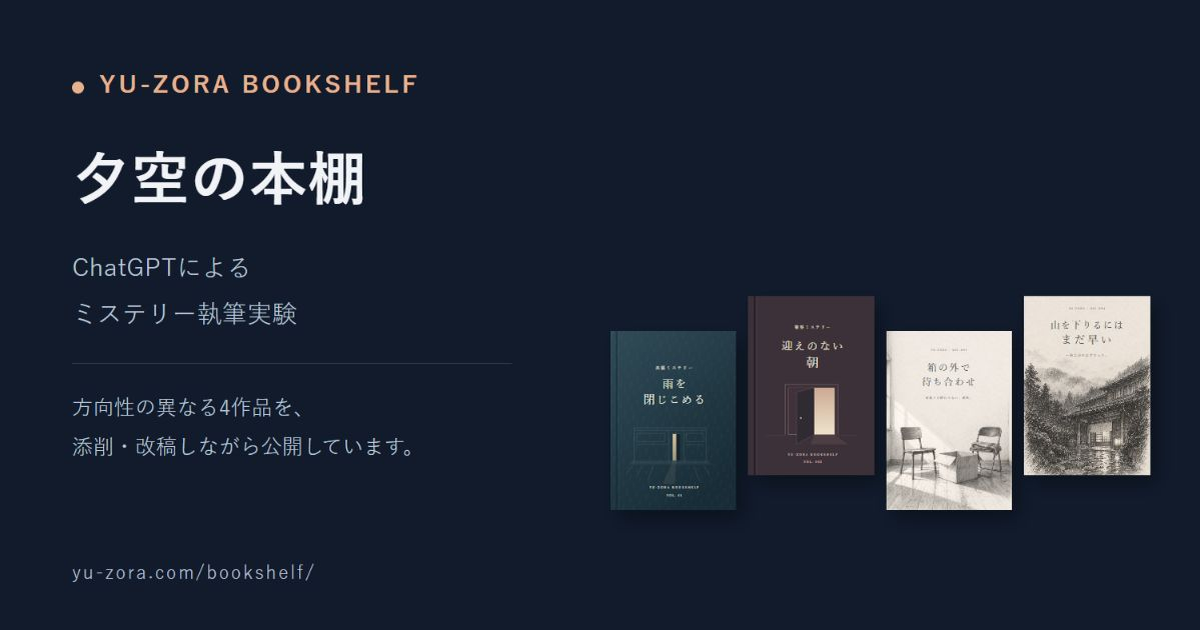
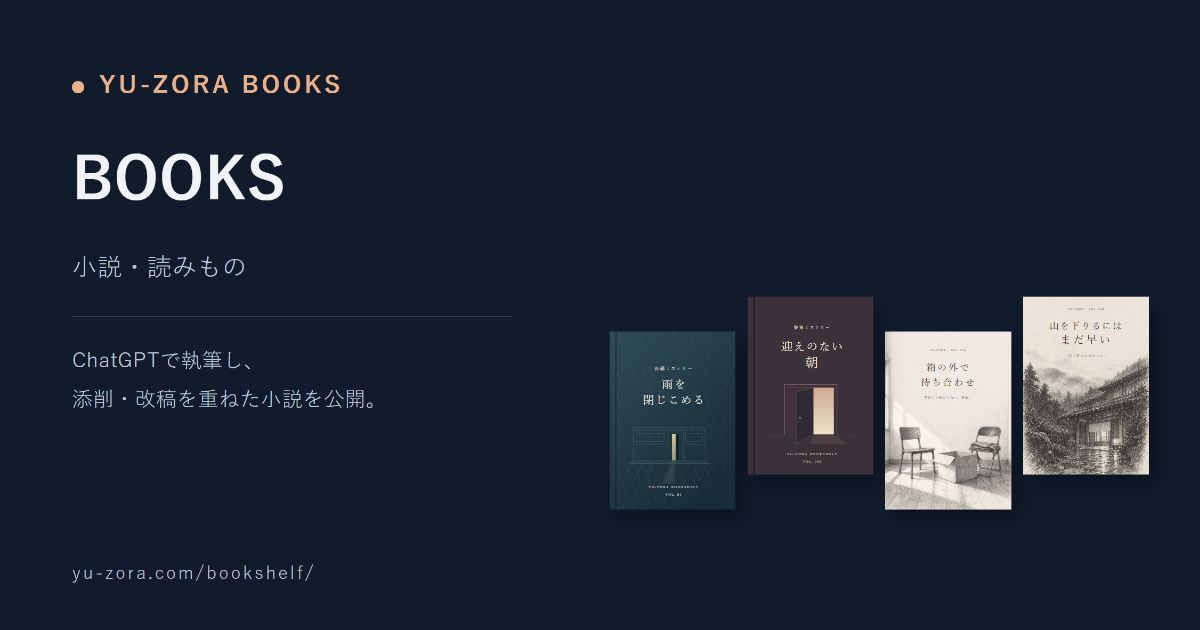
Present BOOKS with concise guidance and random public book feature

diff --git a/docs/social-cards/bookshelf.html b/docs/social-cards/bookshelf.html
@@ -1,1 +1,1 @@
-<!doctype html><html lang="ja"><meta charset="utf-8"><title>bookshelf — SNS共有画像</title><style>*{box-sizing:border-box}html,body{margin:0;width:1200px;height:630px;overflow:hidden}body{font-family:'Yu Gothic',Meiryo,sans-serif;background:#111b2c;color:#f1f3f7}main{width:1200px;height:630px;padding:66px 72px;position:relative}.brand{font-size:24px;letter-spacing:3px;font-weight:700;color:#e7b18d}.dot{display:inline-block;width:12px;height:12px;border-radius:50%;background:#e7b18d;margin-right:15px}h1{font-size:58px;line-height:1.5;margin:32px 0 22px;letter-spacing:1px}p{font-size:25px;line-height:1.85;color:#bcc8d8;margin:0}.domain{position:absolute;bottom:42px;left:72px;font-size:18px;letter-spacing:2px;color:#b2bfcc}.rule{height:1px;background:#ffffff25;margin:25px 0}.cover{box-shadow:14px 18px 32px #0004}.book-card{display:grid;grid-template-columns:300px 1fr;gap:62px;align-items:center}.book-card .cover{width:288px;height:408px}.book-card h1{font-family:'Yu Mincho',serif;font-size:50px;line-height:1.5;margin:22px 0}.book-card p{font-size:24px;color:#c1ccd9}.tag{font-size:19px;letter-spacing:2px;color:#e7b18d}.shelf{position:absolute;right:68px;bottom:110px;display:flex;gap:17px}.shelf img{width:110px;height:156px;box-shadow:7px 9px 18px #0005}.shelf{gap:12px;right:50px;bottom:120px;align-items:end}.shelf img{width:126px;height:178.5px}.shelf img:nth-child(even){transform:translateY(-35px)}</style><body><main><div class="brand"><span class="dot"></span>YU-ZORA BOOKSHELF</div><h1>夕空の本棚</h1><p>ChatGPTによる<br>ミステリー執筆実験</p><div class="rule" style="width:440px"></div><p style="font-size:21px">方向性の異なる4作品を、<br>添削・改稿しながら公開しています。</p><div class="shelf"><img src="../../public/assets/books/ame-wo-tojikomeru/cover.svg" alt="雨を閉じこめる"><img src="../../public/assets/books/mukae-no-nai-asa/cover.svg" alt="迎えのない朝"><img src="../../public/assets/books/hako-no-soto-de-machiawase/cover.svg" alt="箱の外で待ち合わせ"><img src="../../public/assets/books/yama-wo-oriru-niwa-mada-hayai/cover.svg" alt="山を下りるにはまだ早い"></div><div class="domain">yu-zora.com/bookshelf/</div></main></body></html>
+<!doctype html><html lang="ja"><meta charset="utf-8"><title>bookshelf — SNS共有画像</title><style>*{box-sizing:border-box}html,body{margin:0;width:1200px;height:630px;overflow:hidden}body{font-family:'Yu Gothic',Meiryo,sans-serif;background:#111b2c;color:#f1f3f7}main{width:1200px;height:630px;padding:66px 72px;position:relative}.brand{font-size:24px;letter-spacing:3px;font-weight:700;color:#e7b18d}.dot{display:inline-block;width:12px;height:12px;border-radius:50%;background:#e7b18d;margin-right:15px}h1{font-size:58px;line-height:1.5;margin:32px 0 22px;letter-spacing:1px}p{font-size:25px;line-height:1.85;color:#bcc8d8;margin:0}.domain{position:absolute;bottom:42px;left:72px;font-size:18px;letter-spacing:2px;color:#b2bfcc}.rule{height:1px;background:#ffffff25;margin:25px 0}.cover{box-shadow:14px 18px 32px #0004}.book-card{display:grid;grid-template-columns:300px 1fr;gap:62px;align-items:center}.book-card .cover{width:288px;height:408px}.book-card h1{font-family:'Yu Mincho',serif;font-size:50px;line-height:1.5;margin:22px 0}.book-card p{font-size:24px;color:#c1ccd9}.tag{font-size:19px;letter-spacing:2px;color:#e7b18d}.shelf{position:absolute;right:68px;bottom:110px;display:flex;gap:17px}.shelf img{width:110px;height:156px;box-shadow:7px 9px 18px #0005}.shelf{gap:12px;right:50px;bottom:120px;align-items:end}.shelf img{width:126px;height:178.5px}.shelf img:nth-child(even){transform:translateY(-35px)}</style><body><main><div class="brand"><span class="dot"></span>YU-ZORA BOOKS</div><h1>BOOKS</h1><p>小説・読みもの</p><div class="rule" style="width:440px"></div><p style="font-size:21px">ChatGPTで執筆し、<br>添削・改稿を重ねた小説を公開。</p><div class="shelf"><img src="../../public/assets/books/ame-wo-tojikomeru/cover.svg" alt="雨を閉じこめる"><img src="../../public/assets/books/mukae-no-nai-asa/cover.svg" alt="迎えのない朝"><img src="../../public/assets/books/hako-no-soto-de-machiawase/cover.svg" alt="箱の外で待ち合わせ"><img src="../../public/assets/books/yama-wo-oriru-niwa-mada-hayai/cover.svg" alt="山を下りるにはまだ早い"></div><div class="domain">yu-zora.com/bookshelf/</div></main></body></html>

diff --git a/public/assets/portal-shell.css b/public/assets/portal-shell.css
@@ -8,12 +8,19 @@
 .portal-header a:focus-visible { outline:2px solid #e7b18d;outline-offset:4px; }
 .bookshelf-subnav { border-bottom:1px solid var(--line);font-size:12px; }
 .bookshelf-subnav>.wrap { display:flex;justify-content:space-between;align-items:center;gap:24px;min-height:56px;padding-block:6px; }
-.bookshelf-title { font-family:var(--serif);font-size:18px; }
+.bookshelf-title { font-family:var(--sans);font-size:16px;font-weight:700;letter-spacing:0; }
 .bookshelf-subnav .wrap>div { display:flex;gap:24px;align-items:center; }
 .bookshelf-subnav a { display:inline-flex;align-items:center;min-height:40px; }
 html:not([data-reader]) main [id] { scroll-margin-top:92px; }
-.hero-copy #hero-title { font-size:clamp(36px,4.5vw,60px);line-height:1.4;letter-spacing:.01em;margin-bottom:15px; }
-.hero-copy .hero-lead { font-size:16px;line-height:1.95;max-width:36em; }
+.books-heading { padding-block:38px 20px; }
+.books-heading h1 { font-family:var(--sans);font-size:36px;line-height:1.3;letter-spacing:0;margin:0 0 12px; }
+.books-heading p { max-width:48em;font-size:14px;line-height:1.9;color:var(--muted);margin:0; }
+.hero { gap:48px;padding-block:20px 52px; }
+.hero-copy>.eyebrow { margin-bottom:24px;letter-spacing:0; }
+.hero h2 { font-size:30px;line-height:1.5;letter-spacing:0;min-height:1.5em;margin-block:10px 16px; }
+.hero-description { font-size:14px;line-height:1.95;min-height:6em; }
+.hero-art { min-height:440px;background:#dfe7e1;background-image:none; }
+.book-object { width:52%; }
 html[data-reader] .portal-header { position:relative; }
 @media(max-width:760px) {
  .portal-header-inner { width:calc(100% - 40px);min-height:108px;padding:14px 0 8px;flex-direction:column;align-items:flex-start;justify-content:center;gap:8px; }
@@ -23,11 +30,25 @@ html[data-reader] .portal-header { position:relative; }
  .bookshelf-subnav .wrap>div { gap:16px; }
  .bookshelf-title { font-size:15px; }
  .bookshelf-subnav a { font-size:11px; }
- .hero-copy .hero-lead { font-size:14px; }
+ .books-heading { padding-block:28px 18px; }
+ .books-heading h1 { font-size:32px; }
+ .hero { grid-template-columns:1fr;gap:28px;padding-block:12px 40px; }
+ .hero h2 { font-size:25px; }
+ .hero-description { font-size:13px;min-height:0; }
+ .hero-art { grid-row:1;min-height:320px; }
+ .book-object { width:170px; }
  html:not([data-reader]) main [id] { scroll-margin-top:132px; }
 }
 @media(max-width:400px) {
  .portal-nav { column-gap:6px; }
  .portal-nav a { font-size:11px; }
 }
-@media print { .portal-header,.bookshelf-subnav { display:none; } }
+@media print {
+ .portal-header,.bookshelf-subnav { display:none; }
+ .books-heading { padding-block:0 16px; }
+ .hero { grid-template-columns:1fr 170px;gap:24px;padding-block:12px 24px;break-inside:avoid; }
+ .hero-art { grid-row:auto;min-height:0;background:none;overflow:visible; }
+ .book-object { width:150px;transform:none;box-shadow:none; }
+ .hero-description { min-height:0; }
+ .vertical-note,.art-caption { display:none; }
+}

diff --git a/worker/archive-access.js b/worker/archive-access.js
@@ -19,7 +19,7 @@ function gate(request, url, status, message = '') {
   const id = url.pathname.match(/^\/bookshelf\/(?:books|assets\/books)\/([a-z0-9-]+)\//)?.[1];
   const latest = id ? `/bookshelf/books/${id}/` : '/bookshelf/';
   const available = status !== 503;
-  const body = `<!doctype html><html lang="ja"><head><meta charset="utf-8"><meta name="viewport" content="width=device-width,initial-scale=1"><meta name="robots" content="noindex,noarchive"><title>旧版の閲覧 | 夕空の本棚</title><link rel="stylesheet" href="/bookshelf/assets/archive-access.css"></head><body><main><p class="brand">YU-ZORA BOOKSHELF</p><h1>旧版の閲覧</h1><p>旧版を読むには、閲覧パスワードを入力してください。</p>${message ? `<p class="message" role="alert">${escape(message)}</p>` : ''}${available ? `<form method="post"><label for="password">閲覧パスワード</label><input id="password" name="password" type="password" autocomplete="current-password" inputmode="numeric" maxlength="128" required autofocus><button type="submit">旧版を読む</button></form><p class="note">このブラウザでは、8時間は再入力せずに旧版を読めます。</p>` : ''}<a href="${latest}">最新版へ戻る →</a></main></body></html>`;
+  const body = `<!doctype html><html lang="ja"><head><meta charset="utf-8"><meta name="viewport" content="width=device-width,initial-scale=1"><meta name="robots" content="noindex,noarchive"><title>旧版の閲覧 | BOOKS</title><link rel="stylesheet" href="/bookshelf/assets/archive-access.css"></head><body><main><p class="brand">YU-ZORA BOOKS</p><h1>旧版の閲覧</h1><p>旧版を読むには、閲覧パスワードを入力してください。</p>${message ? `<p class="message" role="alert">${escape(message)}</p>` : ''}${available ? `<form method="post"><label for="password">閲覧パスワード</label><input id="password" name="password" type="password" autocomplete="current-password" inputmode="numeric" maxlength="128" required autofocus><button type="submit">旧版を読む</button></form><p class="note">このブラウザでは、8時間は再入力せずに旧版を読めます。</p>` : ''}<a href="${latest}">最新版へ戻る →</a></main></body></html>`;
   return protectResponse(new Response(body, { status, headers: {
     'Content-Type': 'text/html; charset=utf-8',
     'Content-Security-Policy': "default-src 'none'; style-src 'self'; form-action 'self'; frame-ancestors 'none'; base-uri 'none'",

diff --git a/public/assets/featured.js b/public/assets/featured.js
@@ -1,0 +1,42 @@
+export function chooseFeaturedBook(books, random = Math.random, now = new Date()) {
+  const today = new Intl.DateTimeFormat("en-CA", {
+    timeZone: "Asia/Tokyo", year: "numeric", month: "2-digit", day: "2-digit",
+  }).format(now);
+  const visible = books.filter((book) =>
+    book.publishedAt <= today && !book.archived && !book.private && !book.draft &&
+    book.published !== false && !book.unlisted && (!book.visibility || book.visibility === "public"),
+  );
+  if (!visible.length) return null;
+  const value = random();
+  const index = Number.isFinite(value) ? Math.min(visible.length - 1, Math.max(0, Math.floor(value * visible.length))) : 0;
+  return visible[index];
+}
+
+export function applyFeaturedBook(section, book) {
+  for (const name of ["title", "description", "label", "number", "note", "meta"]) {
+    for (const node of section.querySelectorAll(`[data-featured="${name}"]`)) node.textContent = book[name];
+  }
+  section.querySelector('[data-featured="read"]').setAttribute("href", book.read);
+  section.querySelector('[data-featured="detail"]').setAttribute("href", book.detail);
+  const art = section.querySelector('[data-featured="art"]');
+  art.setAttribute("href", book.detail);
+  art.setAttribute("aria-label", `${book.title}の作品紹介`);
+  const cover = section.querySelector('[data-featured="cover"]');
+  cover.setAttribute("src", book.cover);
+  cover.setAttribute("alt", `${book.title}の表紙`);
+  section.dataset.book = book.id;
+}
+
+export function initializeFeaturedBook(root = document) {
+  const section = root.querySelector("#featured-book");
+  const source = root.querySelector("#featured-books-data");
+  if (!section || !source) return;
+  try {
+    const books = JSON.parse(source.textContent);
+    if (!Array.isArray(books)) return;
+    const selected = chooseFeaturedBook(books);
+    if (selected) applyFeaturedBook(section, selected);
+  } catch {
+    // The initial HTML keeps a complete reading link when enhancement is unavailable.
+  }
+}

diff --git a/worker/private-books.js b/worker/private-books.js
@@ -25,7 +25,7 @@ export function privateBookFor(pathname) {
 
 function gate(request, status, message = '') {
   const form = status !== 503 ? `<form method="post"><label for="password">閲覧パスワード</label><input id="password" name="password" type="password" autocomplete="current-password" maxlength="128" required autofocus><button type="submit">作品を読む</button></form><p class="note">このブラウザでは、8時間は再入力せずに読めます。</p>` : '';
-  const body = `<!doctype html><html lang="ja"><head><meta charset="utf-8"><meta name="viewport" content="width=device-width,initial-scale=1"><meta name="robots" content="noindex,noarchive"><title>作品の閲覧 | 夕空の本棚</title><link rel="stylesheet" href="/bookshelf/assets/archive-access.css"></head><body><main><p class="brand">YU-ZORA BOOKSHELF</p><h1>限定閲覧</h1><p>作品を読むには、閲覧パスワードを入力してください。</p>${message ? `<p class="message" role="alert">${escape(message)}</p>` : ''}${form}<a href="/bookshelf/">本棚へ戻る →</a></main></body></html>`;
+  const body = `<!doctype html><html lang="ja"><head><meta charset="utf-8"><meta name="viewport" content="width=device-width,initial-scale=1"><meta name="robots" content="noindex,noarchive"><title>作品の閲覧 | BOOKS</title><link rel="stylesheet" href="/bookshelf/assets/archive-access.css"></head><body><main><p class="brand">YU-ZORA BOOKS</p><h1>限定閲覧</h1><p>作品を読むには、閲覧パスワードを入力してください。</p>${message ? `<p class="message" role="alert">${escape(message)}</p>` : ''}${form}<a href="/bookshelf/">BOOKSへ戻る →</a></main></body></html>`;
   const response = new Response(body, { status, headers: {
     'Content-Type': 'text/html; charset=utf-8',
     'Content-Security-Policy': "default-src 'none'; style-src 'self'; form-action 'self'; frame-ancestors 'none'; base-uri 'none'",

diff --git a/public/assets/site.js b/public/assets/site.js
@@ -5,6 +5,8 @@ import {
   resumeUrl,
   searchable,
 } from "./storage.js";
+import { initializeFeaturedBook } from "./featured.js";
+initializeFeaturedBook();
 const editionSelect = document.querySelector("#edition-select");
 if (editionSelect) {
   editionSelect.addEventListener("change", () => {

diff --git a/docs/QA.md b/docs/QA.md
@@ -149,3 +149,12 @@ Node標準テスト6件：原稿の完全性、配置パス制限、本文のHTM
 - 書籍本文・紹介文・同名図版の実変更、新書籍の自動発見、非公開と未来日付の除外、JST日付境界を追加テストで確認。日付・版名・ナビ・CSS・ビルド時刻・CRLF/LFの差ではハッシュが変わらないことも確認。
 - 構文チェック、ルート配置と本番配置のビルド、フィード6テスト、本番配置の全46テストが成功。認証・本文・旧版URLの既存検証も維持。
 - 現在の `updatedAt` は各作品の本文最終コミット日と一致する。紹介文の更新は日付未変更の事例があるため、ポータル側はハッシュ変更の観測日時も保存する。
+
+## 2026-10-23 BOOKS案内とランダム紹介
+
+- ページ名・共有メタデータ・サブナビ・パンくず・404・認証画面をBOOKS表記に統一。作品本文とAI執筆の表示は維持。
+- 上部の案内と作品紹介を分離し、ページ読込みごとに公開作品から一冊を選ぶ。表紙・代替テキスト・題名・紹介・冊番号・各リンクを同じデータから更新する。
+- JSが動かない場合は、初期HTMLの作品紹介と読むリンクを維持。未来・非公開・旧版を抽選対象から除外する。印刷時は作品情報と表紙を並べ、固定ナビと装飾を外す。
+- 実ブラウザで1365×900と390×844の表示、画像読込み、横溢れなし、再読込みの作品切替、リンク整合、検索の一件表示と解除を確認。表示サイズは検証後に戻した。
+- 作品の本文・メタデータ・図版は変更していない。`activity.json` のファイルハッシュは変更前後で完全一致し、一般案内の修正が各本の改稿扱いにならないことを確認した。
+- 構文確認、本番ビルド、ランダム紹介4件を含む50テストを実施。BOOKS共有画像はHTML原本から1200×630のPNGとして更新。

diff --git a/README.md b/README.md
@@ -1,4 +1,4 @@
-# 夕空の本棚 / YU-ZORA BOOKSHELF
+# BOOKS / YU-ZORA
 
 オリジナル小説のための、スマートフォン・PC対応の静的Web本棚です。『雨を閉じこめる』『迎えのない朝』『箱の外で待ち合わせ』『山を下りるにはまだ早い』を収録しています。
 
@@ -97,7 +97,7 @@ Workerは公開URLの `/bookshelf` 接頭辞を静的アセット取得時に除
 
 『迎えのない朝』の第十改稿版を収録。序章＋本編26章＋終章の全28編。初版から第九改稿版までの本文・URL・版ごとの読書位置を保持しています。制作中の調査・プロット・検証資料はリポジトリ外で管理し、完成原稿だけを収録しています。
 
-`book.json` の任意項目 `startLabel`（例：`序章から読む`）と `contentsLabel`（例：`序章・本編23章・終章`）で、章構成に合わせた案内を指定できます。ファイル番号は目次順の連番で、本文の章番号と別です。未指定時は「はじめから読む」「全N章」。`featured: true` は本棚で大きく紹介する一冊にだけ付けます。
+`book.json` の任意項目 `startLabel`（例：`序章から読む`）と `contentsLabel`（例：`序章・本編23章・終章`）で、章構成に合わせた案内を指定できます。ファイル番号は目次順の連番で、本文の章番号と別です。未指定時は「はじめから読む」「全N章」。トップの作品紹介は、ページの読み込みごとに公開作品からランダムに選びます。`featured: true` はJavaScriptが使えない場合の初期表示作品を指定します。新しい公開作品は自動で抽選対象になります。
 
 ## vol.003
 
